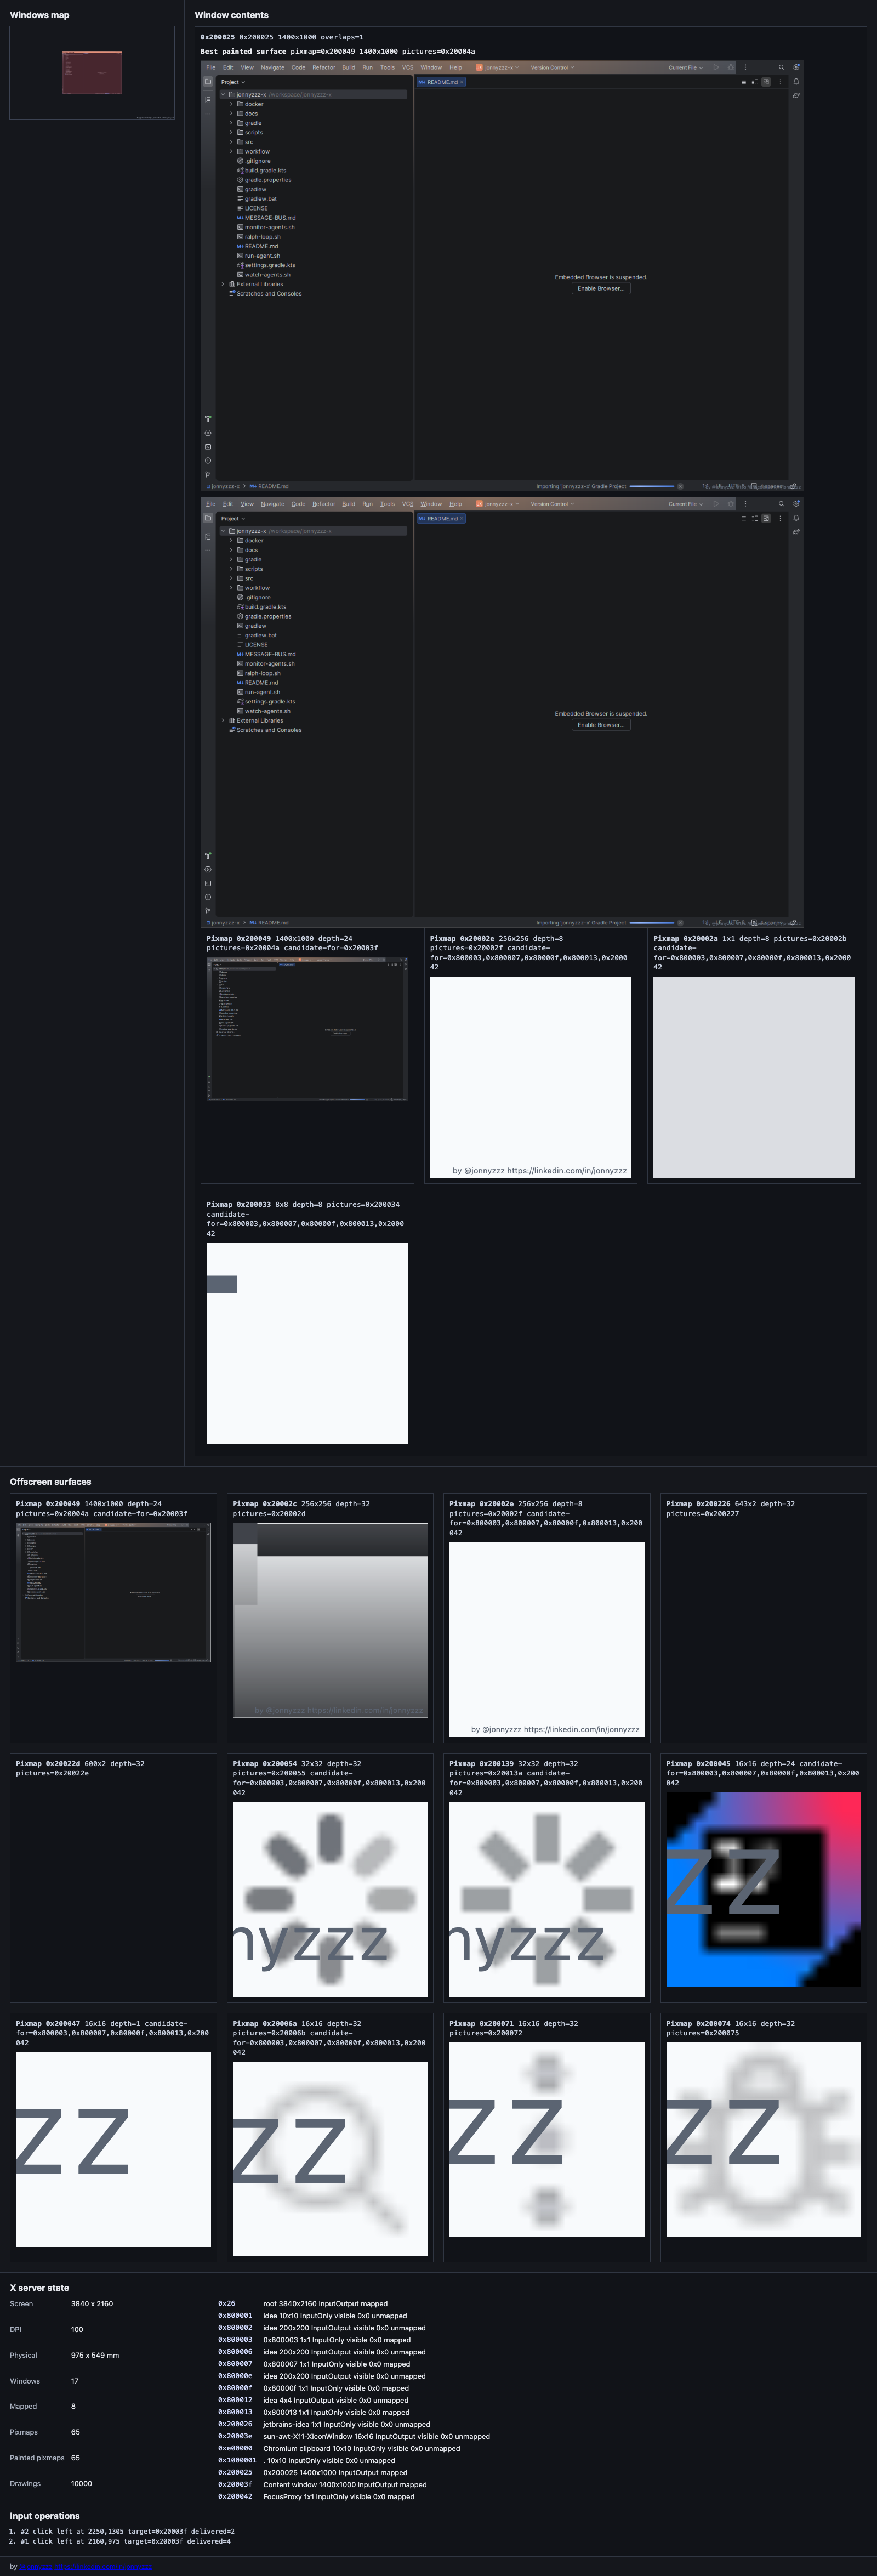
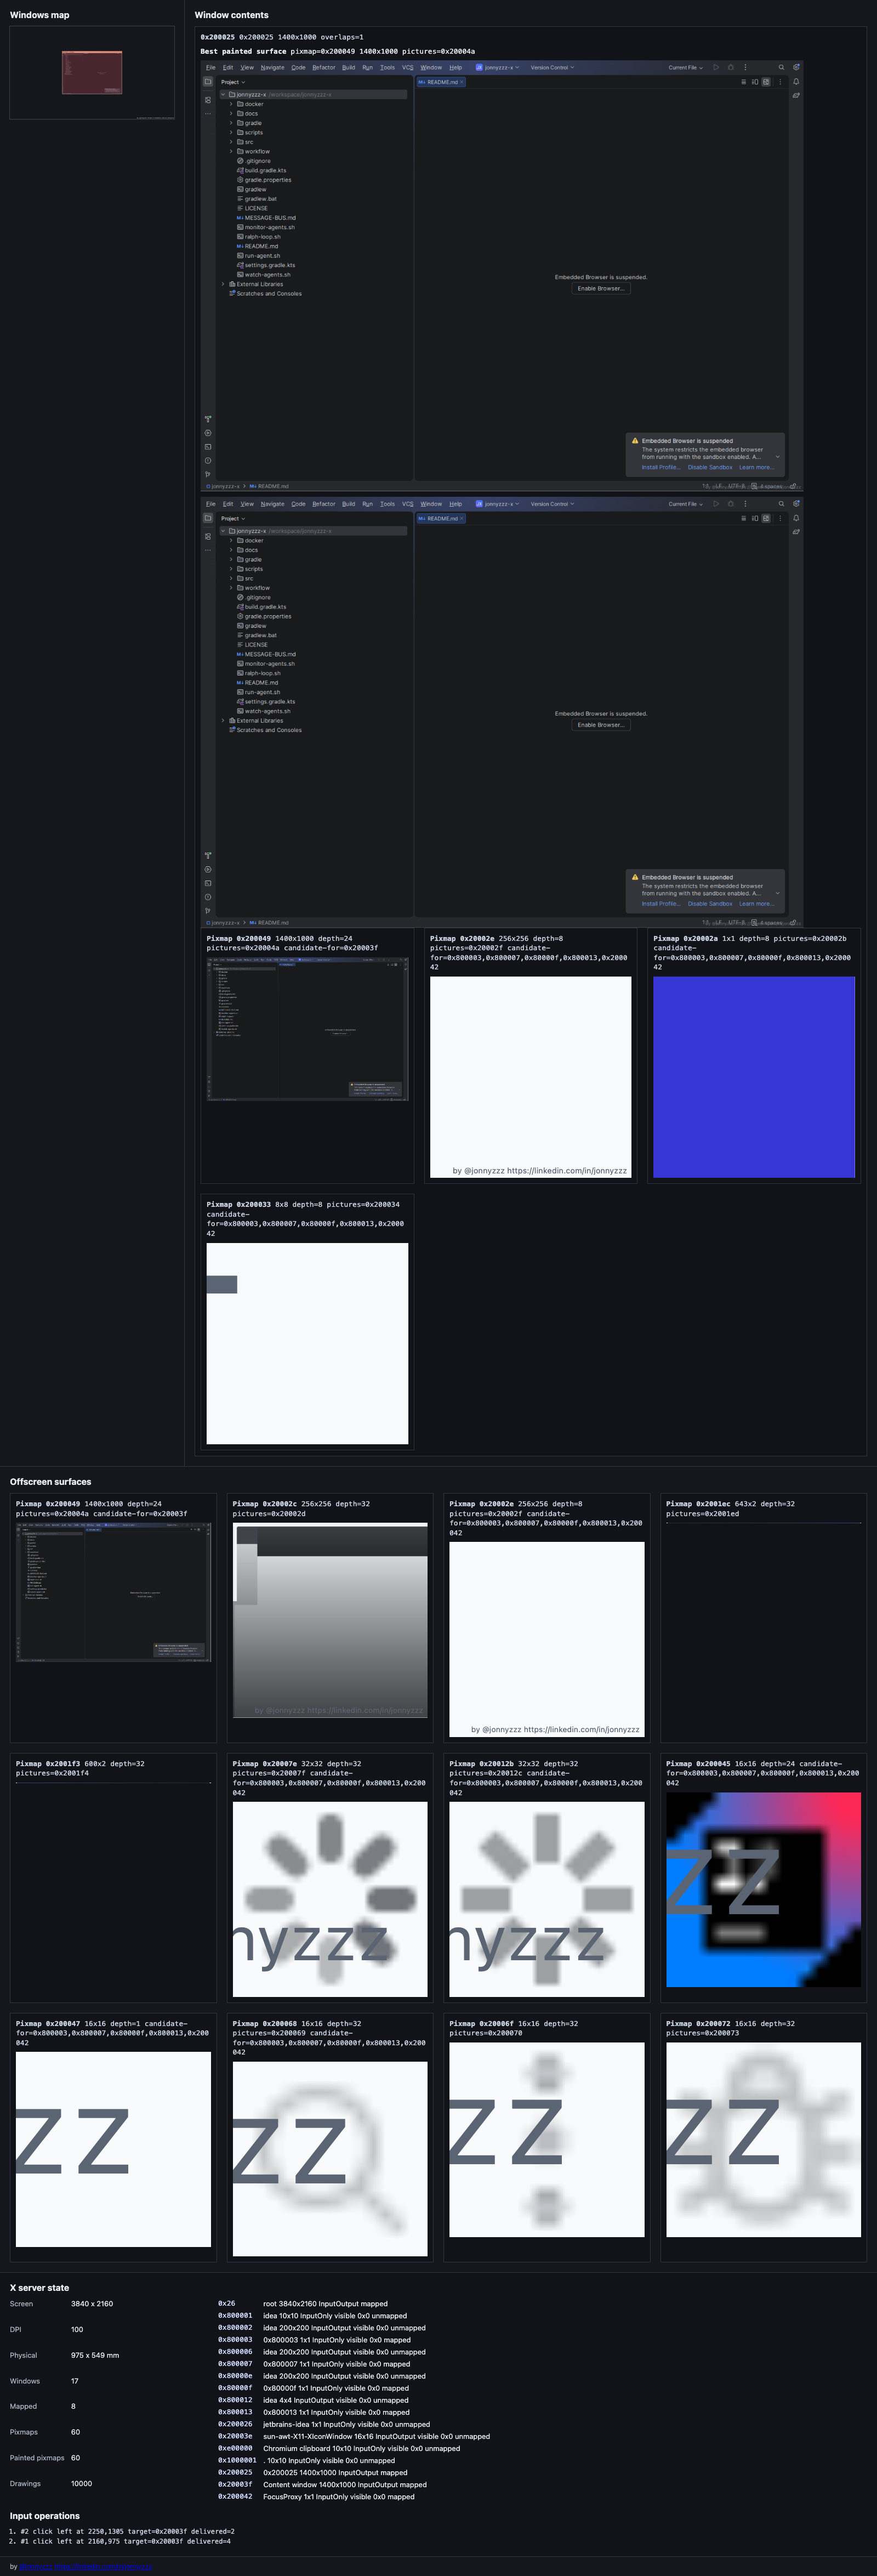
Premultiply RENDER gradient ARGB storage

diff --git a/src/test/kotlin/org/jonnyzzz/xserver/XRenderProtocolTest.kt b/src/test/kotlin/org/jonnyzzz/xserver/XRenderProtocolTest.kt
@@ -10789,6 +10789,168 @@ class XRenderProtocolTest {
     }
 
     @Test
+    fun `RENDER linear gradient OpSrc into ARGB32 stores premultiplied pixels like Xvfb`() {
+        XServer(ServerOptions(port = 0, width = 640, height = 480)).use { server ->
+            val serverThread = thread(start = true, isDaemon = true) { server.serveForever() }
+            Socket("127.0.0.1", server.localPort).use { socket ->
+                socket.soTimeout = 5_000
+                setup(socket)
+                val out = socket.getOutputStream()
+                out.write(createWindowRequest(WindowId))
+                out.write(createPixmapRequest(PixmapId, depth = 32, width = 1, height = 34))
+                out.write(renderCreatePicture(PixmapPictureId, PixmapId, XRender.Argb32Format))
+                out.write(
+                    renderCreateLinearGradient(
+                        GradientPictureId,
+                        p1 = 0 to 0,
+                        p2 = 0 to 300,
+                        stops = listOf(0, 0x0001_0000),
+                        colors = listOf(
+                            RenderColor(red = 0x2626, green = 0x2828, blue = 0x2c2c, alpha = 0x0000),
+                            RenderColor(red = 0x2626, green = 0x2828, blue = 0x2c2c, alpha = 0xffff),
+                        ),
+                    ),
+                )
+                out.write(renderChangePicture(GradientPictureId, repeat = XRender.RepeatPad))
+                out.write(renderComposite(GradientPictureId, PixmapPictureId, operation = XRender.OpSrc, destinationX = 0, destinationY = 0, width = 1, height = 34))
+                out.write(getImageRequest(PixmapId, x = 0, y = 0, width = 1, height = 34))
+                out.flush()
+
+                val image = readReply(socket.getInputStream())
+                mapOf(
+                    0 to 0x0000_0000,
+                    1 to 0x0100_0000,
+                    10 to 0x0901_0102,
+                    20 to 0x1103_0303,
+                    30 to 0x1a04_0404,
+                    33 to 0x1c04_0405,
+                ).forEach { (y, expected) ->
+                    assertEquals(expected, pixelAt(image, imageWidth = 1, x = 0, y = y), "pixel at 0,$y")
+                }
+            }
+            server.close()
+            serverThread.join(1_000)
+        }
+    }
+
+    @Test
+    fun `RENDER clipped linear gradient OpSrc into ARGB32 stores premultiplied pixels`() {
+        XServer(ServerOptions(port = 0, width = 640, height = 480)).use { server ->
+            val serverThread = thread(start = true, isDaemon = true) { server.serveForever() }
+            Socket("127.0.0.1", server.localPort).use { socket ->
+                socket.soTimeout = 5_000
+                setup(socket)
+                val out = socket.getOutputStream()
+                out.write(createWindowRequest(WindowId))
+                out.write(createPixmapRequest(PixmapId, depth = 32, width = 1, height = 34))
+                out.write(renderCreatePicture(PixmapPictureId, PixmapId, XRender.Argb32Format))
+                out.write(renderFillRectangles(PixmapPictureId, x = 0, y = 0, width = 1, height = 34, red = 0xffff, green = 0x0000, blue = 0xffff, alpha = 0xffff))
+                out.write(
+                    renderCreateLinearGradient(
+                        GradientPictureId,
+                        p1 = 0 to 0,
+                        p2 = 0 to 300,
+                        stops = listOf(0, 0x0001_0000),
+                        colors = listOf(
+                            RenderColor(red = 0x2626, green = 0x2828, blue = 0x2c2c, alpha = 0x0000),
+                            RenderColor(red = 0x2626, green = 0x2828, blue = 0x2c2c, alpha = 0xffff),
+                        ),
+                    ),
+                )
+                out.write(renderChangePicture(GradientPictureId, repeat = XRender.RepeatPad))
+                out.write(renderSetPictureClipRectangles(GradientPictureId, rectangles = listOf(XRectangleCommand(0, 10, 1, 1))))
+                out.write(renderComposite(GradientPictureId, PixmapPictureId, operation = XRender.OpSrc, destinationX = 0, destinationY = 0, width = 1, height = 34))
+                out.write(getImageRequest(PixmapId, x = 0, y = 0, width = 1, height = 34))
+                out.flush()
+
+                val image = readReply(socket.getInputStream())
+                assertEquals(0xffff_00ff.toInt(), pixelAt(image, imageWidth = 1, x = 0, y = 9), "pixel at 0,9")
+                assertEquals(0x0901_0102, pixelAt(image, imageWidth = 1, x = 0, y = 10), "pixel at 0,10")
+                assertEquals(0xffff_00ff.toInt(), pixelAt(image, imageWidth = 1, x = 0, y = 11), "pixel at 0,11")
+            }
+            server.close()
+            serverThread.join(1_000)
+        }
+    }
+
+    @Test
+    fun `RENDER linear gradient with alpha map OpSrc into ARGB32 stores premultiplied pixels`() {
+        XServer(ServerOptions(port = 0, width = 640, height = 480)).use { server ->
+            val serverThread = thread(start = true, isDaemon = true) { server.serveForever() }
+            Socket("127.0.0.1", server.localPort).use { socket ->
+                socket.soTimeout = 5_000
+                setup(socket)
+                val out = socket.getOutputStream()
+                out.write(createWindowRequest(WindowId))
+                out.write(createPixmapRequest(PixmapId, depth = 32, width = 1, height = 1))
+                out.write(renderCreatePicture(PixmapPictureId, PixmapId, XRender.Argb32Format))
+                out.write(createPixmapRequest(MaskPixmapId, depth = 8, width = 1, height = 1))
+                out.write(renderCreatePicture(MaskPictureId, MaskPixmapId, XRender.A8Format))
+                out.write(putImage8Request(MaskPixmapId, width = 1, height = 1, alphas = byteArrayOf(0x80.toByte())))
+                out.write(
+                    renderCreateLinearGradient(
+                        GradientPictureId,
+                        p1 = 0 to 0,
+                        p2 = 0 to 300,
+                        stops = listOf(0, 0x0001_0000),
+                        colors = listOf(
+                            RenderColor(red = 0x2626, green = 0x2828, blue = 0x2c2c, alpha = 0x0000),
+                            RenderColor(red = 0x2626, green = 0x2828, blue = 0x2c2c, alpha = 0xffff),
+                        ),
+                    ),
+                )
+                out.write(renderChangePicture(GradientPictureId, repeat = XRender.RepeatPad))
+                out.write(renderChangePictureAttributes(GradientPictureId, XRender.CPAlphaMap to MaskPictureId))
+                out.write(renderComposite(GradientPictureId, PixmapPictureId, operation = XRender.OpSrc, destinationX = 0, destinationY = 0, width = 1, height = 1))
+                out.write(getImageRequest(PixmapId, x = 0, y = 0, width = 1, height = 1))
+                out.flush()
+
+                val image = readReply(socket.getInputStream())
+                assertEquals(0x8013_1416.toInt(), pixelAt(image, imageWidth = 1, x = 0, y = 0))
+            }
+            server.close()
+            serverThread.join(1_000)
+        }
+    }
+
+    @Test
+    fun `RENDER linear gradient with component alpha mask OpSrc into ARGB32 does not premultiply source twice`() {
+        XServer(ServerOptions(port = 0, width = 640, height = 480)).use { server ->
+            val serverThread = thread(start = true, isDaemon = true) { server.serveForever() }
+            Socket("127.0.0.1", server.localPort).use { socket ->
+                socket.soTimeout = 5_000
+                setup(socket)
+                val out = socket.getOutputStream()
+                out.write(createWindowRequest(WindowId))
+                out.write(createPixmapRequest(PixmapId, depth = 32, width = 1, height = 1))
+                out.write(renderCreatePicture(PixmapPictureId, PixmapId, XRender.Argb32Format))
+                out.write(
+                    renderCreateLinearGradient(
+                        GradientPictureId,
+                        p1 = 0 to 0,
+                        p2 = 1 to 0,
+                        stops = listOf(0, 0x0001_0000),
+                        colors = listOf(
+                            RenderColor(red = 0x2626, green = 0x2828, blue = 0x2c2c, alpha = 0x8080),
+                            RenderColor(red = 0x2626, green = 0x2828, blue = 0x2c2c, alpha = 0x8080),
+                        ),
+                    ),
+                )
+                out.write(renderCreateSolidFill(ComponentMaskPictureId, red = 0x8080, green = 0x8080, blue = 0x8080, alpha = 0xffff))
+                out.write(renderChangePictureComponentAlpha(ComponentMaskPictureId, componentAlpha = true))
+                out.write(renderComposite(GradientPictureId, PixmapPictureId, mask = ComponentMaskPictureId, operation = XRender.OpSrc, destinationX = 0, destinationY = 0, width = 1, height = 1))
+                out.write(getImageRequest(PixmapId, x = 0, y = 0, width = 1, height = 1))
+                out.flush()
+
+                val image = readReply(socket.getInputStream())
+                assertEquals(0x8013_1416.toInt(), pixelAt(image, imageWidth = 1, x = 0, y = 0))
+            }
+            server.close()
+            serverThread.join(1_000)
+        }
+    }
+
+    @Test
     fun `RENDER linear gradient repeat modes control spread samples`() {
         XServer(ServerOptions(port = 0, width = 640, height = 480)).use { server ->
             val serverThread = thread(start = true, isDaemon = true) { server.serveForever() }

diff --git a/src/main/kotlin/org/jonnyzzz/xserver/X11State.kt b/src/main/kotlin/org/jonnyzzz/xserver/X11State.kt
@@ -5252,6 +5252,14 @@ internal class X11State(
         val maskFramebuffer = mask?.drawableFramebuffer()
         val maskPixelAt = mask?.takeIf { it.componentAlpha }?.componentMaskSampler(snapshotDrawableId = destinationDrawableId)
         val maskAlphaAt = if (maskPixelAt == null) mask?.maskAlphaSampler(snapshotDrawableId = destinationDrawableId) else null
+        val premultiplyGradientForArgb32Storage = source.isGradientRenderSource() &&
+            operation == XRender.OpSrc &&
+            destination.format == XRender.Argb32Format &&
+            maskFramebuffer == null &&
+            maskPixelAt == null &&
+            maskAlphaAt == null
+        fun storagePixel(pixel: Int): Int =
+            if (premultiplyGradientForArgb32Storage) premultiplyPixel(pixel) else pixel
         if (maskPixelAt != null) {
             val sourcePixelAt: (x: Int, y: Int) -> Int? = (if (source.alphaMap != 0) {
                 source.compositeSourcePixelSamplerOptional(destinationDrawableId)
@@ -5275,7 +5283,7 @@ internal class X11State(
                 maskPixelAt = maskPixelAt,
                 sourcePremultiplied = source.drawableId != null,
             ) { x, y ->
-                sourcePixelAt(x, y)
+                sourcePixelAt(x, y)?.let(::storagePixel)
             }
         }
         if (source.alphaMap != 0) {
@@ -5296,7 +5304,7 @@ internal class X11State(
                 maskAlphaAt = maskAlphaAt,
                 sourcePremultiplied = source.drawableId != null,
             ) { x, y ->
-                sourcePixelAt(x, y)
+                sourcePixelAt(x, y)?.let(::storagePixel)
             }
         }
         if (source.hasPictureClip() || source.hasSourceSubwindowClip()) {
@@ -5317,7 +5325,7 @@ internal class X11State(
                 maskAlphaAt = maskAlphaAt,
                 sourcePremultiplied = source.drawableId != null,
             ) { x, y ->
-                sourcePixelAt(x, y)
+                sourcePixelAt(x, y)?.let(::storagePixel)
             }
         }
         val gradientSampler = source.gradientSampler()
@@ -5337,7 +5345,7 @@ internal class X11State(
                 maskY = maskY,
                 maskAlphaAt = maskAlphaAt,
             ) { x, y ->
-                gradientSampler(x, y)
+                storagePixel(gradientSampler(x, y))
             }
         }
         val solid = source.solidPixel?.let { renderPixelForPictureFormat(it, destination.format) }
@@ -6209,6 +6217,11 @@ internal class X11State(
     private fun XPicture.isGeneratedRenderSource(): Boolean =
         solidPixel != null ||
             linearGradient != null ||
+            radialGradient != null ||
+            conicalGradient != null
+
+    private fun XPicture.isGradientRenderSource(): Boolean =
+        linearGradient != null ||
             radialGradient != null ||
             conicalGradient != null
 
@@ -7089,6 +7102,15 @@ internal class X11State(
             return (a + (b - a) * ratio).roundToInt().coerceIn(0, 255)
         }
         return (channel(24) shl 24) or (channel(16) shl 16) or (channel(8) shl 8) or channel(0)
+    }
+
+    private fun premultiplyPixel(pixel: Int): Int {
+        val alpha = (pixel ushr 24) and 0xff
+        if (alpha == 0) return 0
+        if (alpha == 255) return pixel
+        fun channel(shift: Int): Int =
+            (((pixel ushr shift) and 0xff) * alpha / 255.0).roundToInt().coerceIn(0, alpha)
+        return (alpha shl 24) or (channel(16) shl 16) or (channel(8) shl 8) or channel(0)
     }
 
     private fun Int.fixedToDouble(): Double = this / 65_536.0